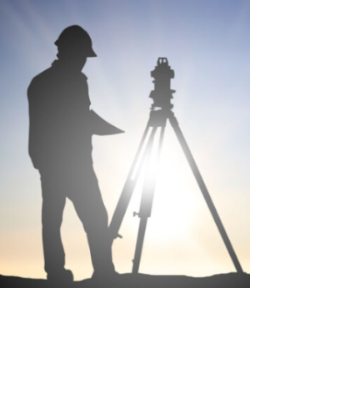
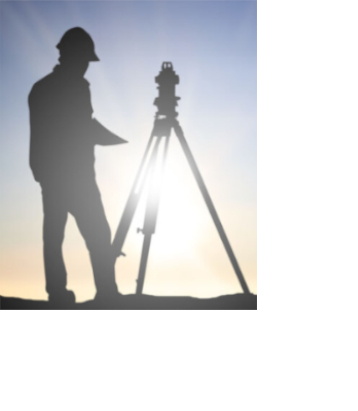
alteração background sobre

diff --git a/src/pages/Sobre/styles.css b/src/pages/Sobre/styles.css
@@ -70,11 +70,24 @@
 
 @media(max-width: 550px) {
 
-  .container {
-    background-image: url("../../assets/background.jpg");
-    background-color: rgba(243, 243, 243, 0.87);
-    background-size:cover;
+  /* body {
+    background-size: cover;
     background-repeat: repeat-y;
+    background-repeat:no-repeat;
+    background-size:contain;
+    background-position:center;
+    background-image: url("../../assets/background.jpg");
+  } */
+
+  .content {
+    background-color: rgba(243, 243, 243, 0.623);
+  }
+
+  .container {
+    background-repeat:no-repeat;
+    background-size:cover;
+    background-position:center;
+    background-image: url("../../assets/background.png");
   }
 
   .conteudo-principal {
@@ -84,7 +97,6 @@
   .left{
     width: 100%;
     height: 60%;
-    background-color: #f3f3f393;
   }
 
   .right {

diff --git a/src/pages/Sobre/index.js b/src/pages/Sobre/index.js
@@ -10,6 +10,7 @@ export default function Sobre() {
         <>
         <Header/>
         <div className="container">
+        <div className="content">
         <div className="logo-sobre">
             <img src={LogoRedondo} alt="logo" />
         </div>
@@ -37,6 +38,7 @@ export default function Sobre() {
                     <img src={Topografo} alt="Topografo" />
                 </aside>
             </main>
+        </div>
         </div>
         </>
     );
